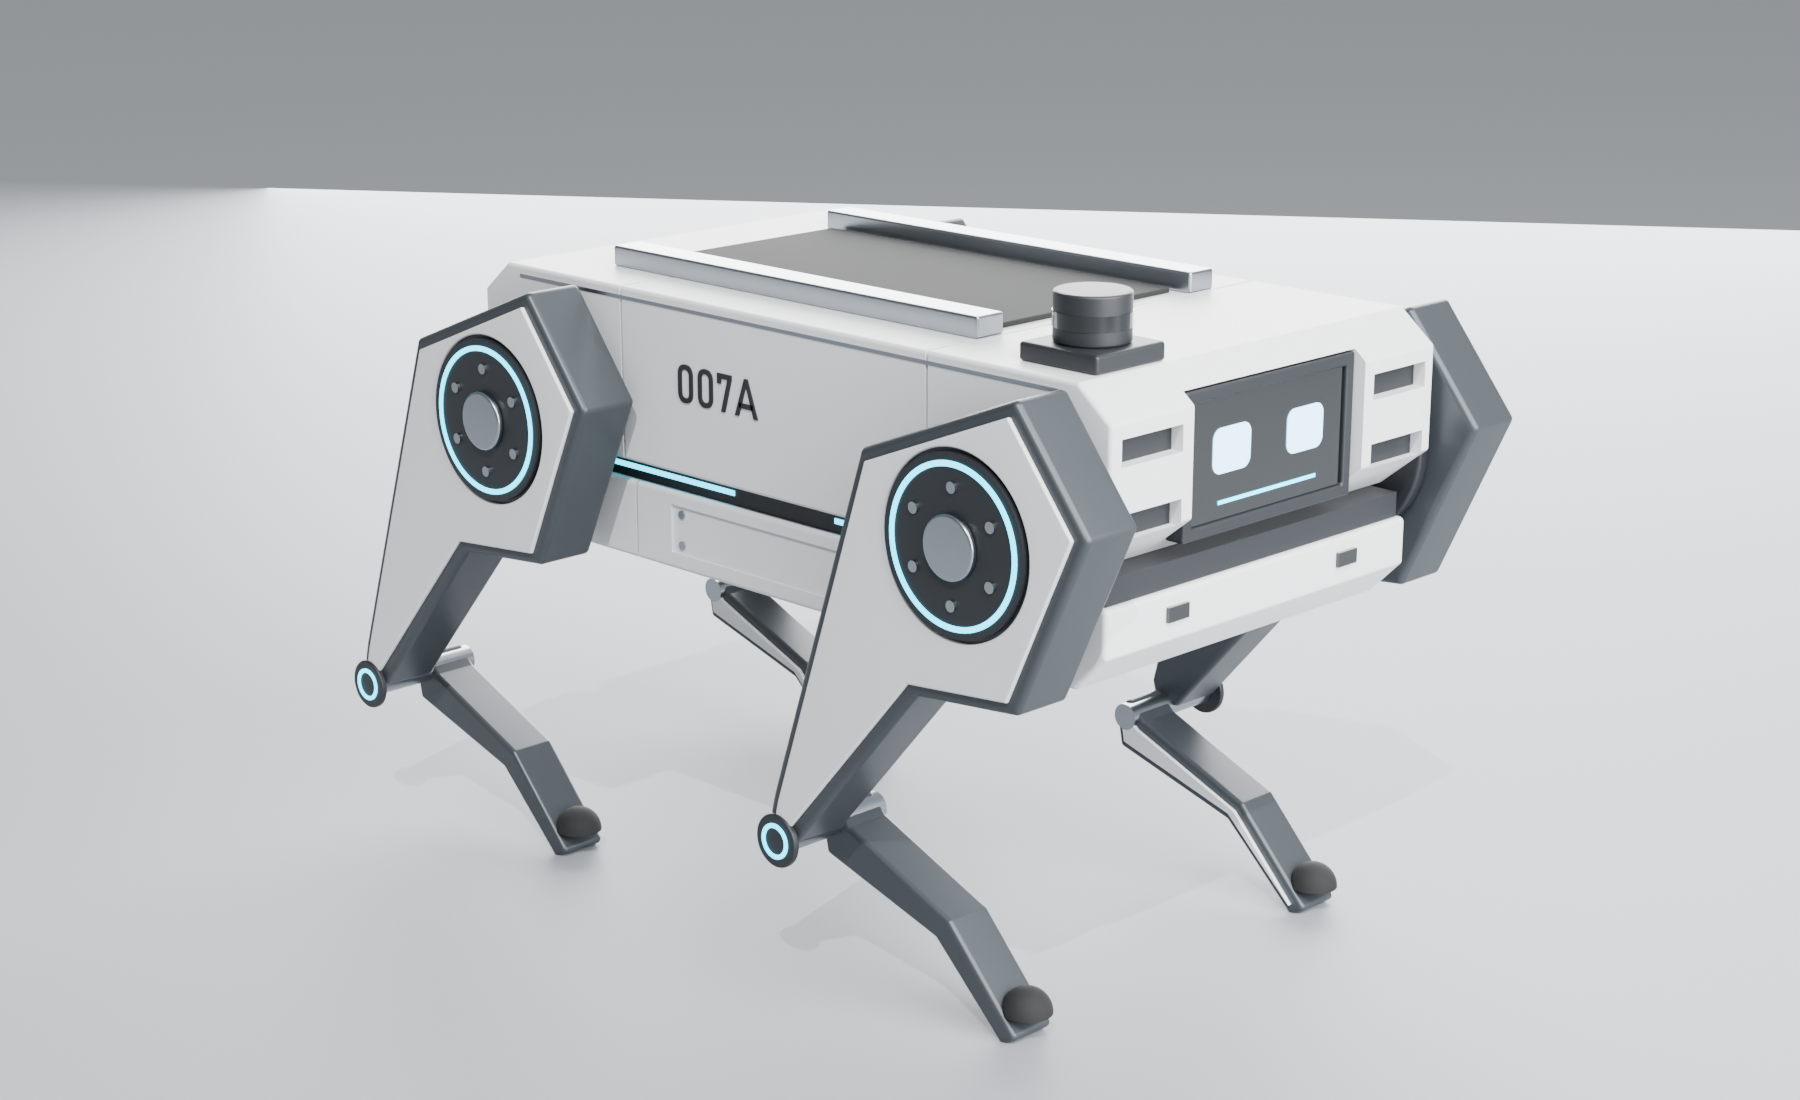
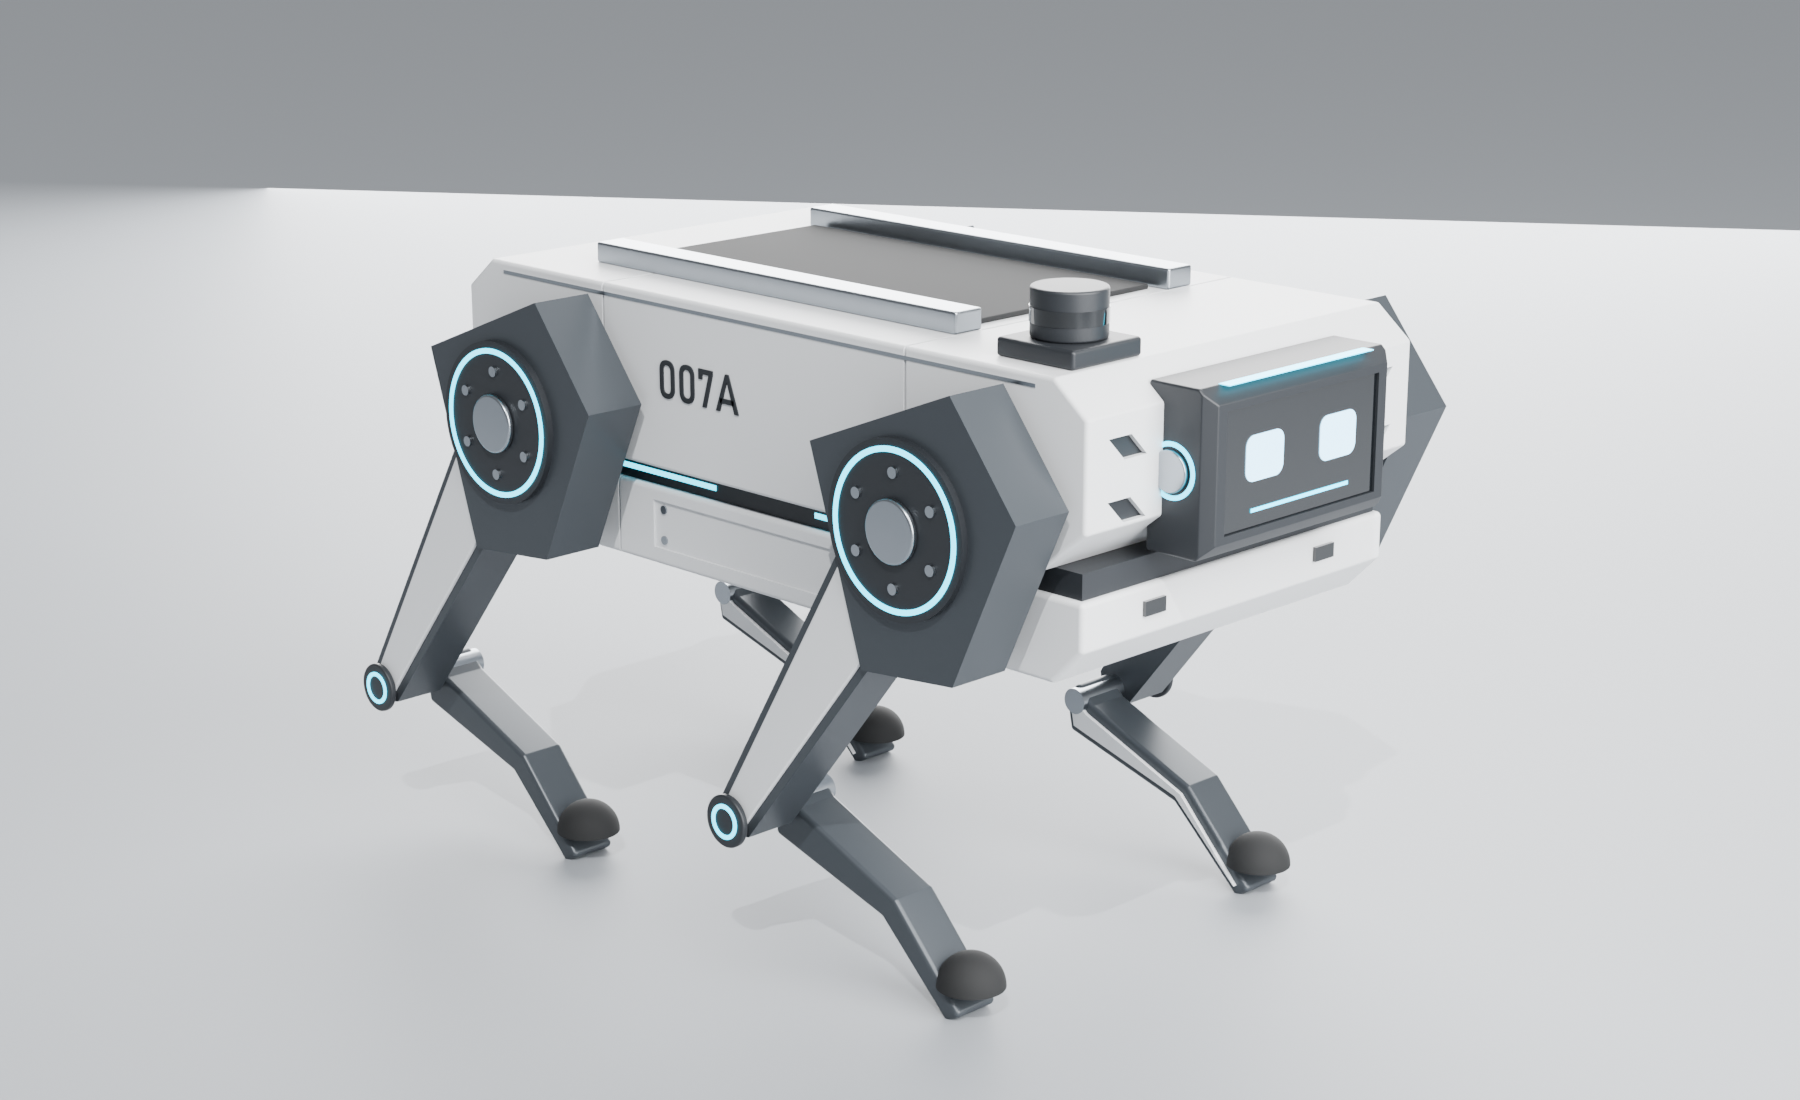
007A 外观 v2：髋盘按电机缩紧、大腿收成一条臂；髋往后收、头做成往前凸出的屏幕模块（带抬头低头转轴）；平行斜槽；脚垫加大

diff --git a/007a/model.py b/007a/model.py
@@ -22,7 +22,7 @@ V = cq.Vector
 # ================================================================ 尺寸
 BODY_L, BODY_W, BODY_H = 480.0, 260.0, 160.0
 L2, W2 = BODY_L / 2, BODY_W / 2
-HIP_X = 185.0
+HIP_X = 160.0                                   # 髋往后收：头要在最前面（v2，用户：腿不能超过头）
 MOTOR_D = 92.0                                   # 关节电机（GIM8108-8 级别）
 SEAM = 2.0
 
@@ -37,7 +37,20 @@ Z0 = HIP_Z - BODY_H / 2                          # 机身底离地
 TUB_TOP, WAIST_TOP = Z0 + 46, Z0 + 60            # 下层底盘顶、黑腰顶（上层外壳 100 高，屏幕整块嵌进去）
 TOP = Z0 + BODY_H
 HUB_SK = [(-35, -33), (28, -33), (33, 38), (-4, 49), (-47, 8)]
-HUB_F = (MOTOR_D / 2 + 8) / 30.0
+WR, WK = 30.0, 14.0                              # 大腿：根部半宽、膝那头半宽（v2：收窄，用户嫌大腿太大）
+
+
+def _hub_scale():
+    """髋盘照草图的尖角外形，按“刚好包住电机（半径 + 5）”缩放：最小边心距 = 51。"""
+    best = 1e9
+    n = len(HUB_SK)
+    for i in range(n):
+        (x0, y0), (x1, y1) = HUB_SK[i], HUB_SK[(i + 1) % n]
+        best = min(best, abs(x0 * y1 - x1 * y0) / math.hypot(x1 - x0, y1 - y0))   # 原点到边的距离
+    return (MOTOR_D / 2 + 5) / best
+
+
+HUB_F = _hub_scale()
 KNEE_TOP = [(303, 234), (311, 245), (313, 262)]
 KNEE_BOT = [(296, 266)]
 SHANK_SK = [(310, 250), (317, 265), (311, 285), (218, 303), (160, 348), (149, 340), (208, 288), (294, 262)]
@@ -101,25 +114,30 @@ def _rot(p, r):
 
 
 def leg_2d(foot=(0.0, -HIP_Z)):
-    """返回 (髋盘+大腿 多边形, 小腿 多边形, 膝, 脚)。草图里膝朝右，这里膝朝后（-x），所以先把草图左右镜像。"""
+    """返回 (髋盘 多边形, 大腿臂 多边形, 小腿 多边形, 膝, 脚)。草图里膝朝右，这里膝朝后（-x），所以先把草图左右镜像。"""
     knee = leg_ik(foot)
     sk = lambda p, o: (-(p[0] - o[0]), -(p[1] - o[1]))           # 草图 → 镜像 + y 朝上
     a_sk = math.atan2(*reversed(sk(K0, H0)))
     r = math.atan2(knee[1], knee[0]) - a_sk
-    hub = [_rot((-x * HUB_F, -y * HUB_F), r) for x, y in HUB_SK]
+    hub = [_rot((-x * HUB_F, -y * HUB_F), r) for x, y in HUB_SK][::-1]
+    ang = math.atan2(knee[1], knee[0])                             # v2：大腿是一条从髋盘中心收到膝的臂，和髋盘一体
+    nx, nz = -math.sin(ang), math.cos(ang)
+    ux, uz = math.cos(ang), math.sin(ang)
+    kx, kz = knee
+    arm = [(nx * WR, nz * WR), (kx + nx * WK, kz + nz * WK), (kx + ux * WK, kz + uz * WK),
+           (kx - nx * WK, kz - nz * WK), (-nx * WR, -nz * WR)]
 
     def at_knee(pts, rr):
         return [tuple(k + d for k, d in zip(knee, _rot((sk(p, K0)[0] * S, sk(p, K0)[1] * S), rr))) for p in pts]
-    thigh = hub[:2] + at_knee(KNEE_TOP, r) + at_knee(KNEE_BOT, r) + hub[2:]
     a_sh = math.atan2(*reversed(sk(T0, K0)))
     a_now = math.atan2(foot[1] - knee[1], foot[0] - knee[0])
     shank = at_knee(SHANK_SK, a_now - a_sh)
-    return thigh[::-1], shank[::-1], knee, foot                  # 镜像后顺序反了，翻回逆时针
+    return hub, arm, shank[::-1], knee, foot
 
 
 def leg_parts(fx, sy):
     """一条腿（fx = 1 前 / -1 后，sy = 1 左 / -1 右）的零件，已放到机身上。"""
-    thigh, shank, knee, foot = leg_2d()
+    hub, arm, shank, knee, foot = leg_2d()
     hx, hz = fx * HIP_X, HIP_Z
     P = []
 
@@ -129,11 +147,11 @@ def leg_parts(fx, sy):
 
     yc = LEG_Y                                                     # 大腿中面（左边的腿；右边镜像）
     y_out = yc + T_THIGH / 2
-    th = prism_xz(thigh, yc - T_THIGH / 2, y_out)
-    th = soft(th, 4.0)
+    th = prism_xz(hub, yc - T_THIGH / 2, y_out).fuse(prism_xz(arm, yc - T_THIGH / 2 + 3, y_out - 3)).clean()
+    th = soft(th, 3.0)
     P.append(("大腿", place(th, 0), "skel"))
-    cover = prism_xz_offset(thigh, -7.0, y_out - 0.5, y_out + 2.5)   # 外盖板：浅色，比骨架小一圈、凸出 2.5
-    cover = cover.cut(cyl_y(0, 0, MOTOR_D + 6, y_out - 2, y_out + 4))   # 髋盘位置让出来（那里是光环和盖）
+    cover = prism_xz_offset(arm, -5.0, y_out - 3.5, y_out - 0.5)      # 大腿臂的浅色外盖板（髋盘那段让出来）
+    cover = cover.cut(cyl_y(0, 0, MOTOR_D + 14, y_out - 5, y_out + 2))
     P.append(("大腿外盖板", place(soft(cover, 1.2), 0), "shell"))
     # 髋盘外面：深色电机盖 + 青色光环 + 中心盖 + 6 颗螺栓
     P.append(("髋盖", place(cyl_y(0, 0, MOTOR_D + 2, y_out, y_out + 4), 0), "skel_dk"))
@@ -153,7 +171,8 @@ def leg_parts(fx, sy):
     P.append(("膝盖帽外", place(soft(cyl_y(kx, kz, 30, y_out, y_out + 4), 1.2), 0), "skel_dk"))
     P.append(("膝光点", place(ring_y(kx, kz, 20, 15, y_out + 4, y_out + 4.6), 0), "cyan"))
     fxp, fzp = foot
-    P.append(("脚垫", place(cq.Solid.makeSphere(14, V(fxp, ys0 + T_SHANK / 2, fzp + 14)), 0), "rubber"))
+    pad = cq.Solid.makeSphere(19, V(fxp, ys0 + T_SHANK / 2, fzp + 17)).cut(box(fxp - 30, fxp + 30, ys0 - 20, ys0 + 50, fzp - 10, fzp + 1))
+    P.append(("脚垫", place(pad.translate(V(0, 0, -1)), 0), "rubber"))      # 加大、底下削平一点（站得稳）
     # 机身侧面的髋座（外摆电机的法兰，深色圆盘）
     P.append(("髋座", place(soft(cyl_y(0, 0, MOTOR_D + 18, W2 - 1, W2 + 7), 2.0), 0), "skel_dk"))
     tag = ("前" if fx > 0 else "后") + ("左" if sy > 0 else "右")
@@ -192,14 +211,18 @@ def body_parts():
     # 前脸：屏幕窗 + 两边各两道凹槽（照用户的前脸图）
     sw, sh = 124.0, 64.0                                           # 4.3 寸屏露出来的部分
     zc = WAIST_TOP + (TOP - WAIST_TOP) / 2 - 2
-    slab = slab.cut(box(L2 - 14, L2 + 10, -sw / 2 - 8, sw / 2 + 8, zc - sh / 2 - 8, zc + sh / 2 + 8))
-    for sy in (1, -1):
-        for z0, z1 in ((zc + 12, zc + 26), (zc - 26, zc - 12)):
-            slab = slab.cut(box(L2 - 4, L2 + 10, *sorted((sy * (sw / 2 + 16), sy * (W2 - 6))), z0, z1))
+    HW, HH, HD = sw + 26, sh + 24, 30.0                              # 头：往前凸出的屏幕模块（宽、高、伸出来多少）
+    grooves = []
+    for sy in (1, -1):                                             # 两边各两道平行斜槽（45°，和机身切角统一）
+        y_in, y_end = sy * (HW / 2 + 12), sy * (W2 - 14)
+        for z0, z1 in ((zc + 10, zc + 22), (zc - 22, zc - 10)):
+            h = z1 - z0
+            pts = [(y_in, z0), (y_end - sy * h, z0), (y_end, z1), (y_in + sy * h, z1)]   # 平行四边形：都往外上方斜
+            slab = slab.cut(prism_yz(pts, L2 - 1, L2 + 10))
+            grooves.append((sy, z0, pts))
     P.append(("上层甲板壳", slab, "shell"))
-    for sy in (1, -1):                                             # 凹槽里的深色内衬（看得出是陷进去的）
-        for z0, z1 in ((zc + 12, zc + 26), (zc - 26, zc - 12)):
-            P.append((f"凹槽内衬{sy}{z0:.0f}", box(L2 - 4.5, L2 - 3.5, *sorted((sy * (sw / 2 + 16), sy * (W2 - 6))), z0, z1), "skel_dk"))
+    for sy, z0, pts in grooves:                                    # 凹槽里的深色内衬
+        P.append((f"凹槽内衬{sy}{z0:.0f}", prism_yz(pts, L2 - 1.5, L2 + 0.8), "skel_dk"))
     for sy in (1, -1):
         txt = cq.Workplane("XZ").text("007A", 30, 0.8, halign="center", valign="center", fontPath="C:/Windows/Fonts/bahnschrift.ttf").val()
         txt = txt.translate(V(-40, 0, 0))
@@ -209,15 +232,23 @@ def body_parts():
             txt = txt.translate(V(0, -W2 - 2, zc))
         P.append((f"字样{sy}", txt, "skel_dk"))
         P.append((f"甲板边线{sy}", box(-L2 + 30, L2 - 30, *sorted((sy * (W2 + 2), sy * (W2 + 2.4))), TOP - 7, TOP - 5), "metal"))
-    # ---- 头：屏幕框（深色）+ 屏幕（玻璃）+ 眼睛（屏上的图案）
-    bez = box(L2 - 14, L2 - 2, -sw / 2 - 7, sw / 2 + 7, zc - sh / 2 - 7, zc + sh / 2 + 7)
-    bez = bez.cut(box(L2 - 15, L2 - 1, -sw / 2, sw / 2, zc - sh / 2, zc + sh / 2))
-    P.append(("屏幕框", soft(bez, 1.5), "skel_dk"))
-    P.append(("屏幕", box(L2 - 6, L2 - 4, -sw / 2, sw / 2, zc - sh / 2, zc + sh / 2), "glass"))
+    # ---- 头：深色屏幕模块从前脸往前伸 30，前面切角（像头盔面罩）；两侧金属圆盖 = 抬头低头的转轴
+    hx0, hx1 = L2 + 4, L2 + 4 + HD
+    head = box(hx0 - 10, hx1, -HW / 2, HW / 2, zc - HH / 2, zc + HH / 2)
+    head = cq.Workplane().add(head).edges("|Y and >X").chamfer(8).val()
+    head = cq.Workplane().add(head).edges("|Z and >X").chamfer(6).val()
+    head = soft(head, 1.5)
+    head = head.cut(box(hx1 - 3, hx1 + 1, -sw / 2, sw / 2, zc - sh / 2, zc + sh / 2))
+    P.append(("头", head, "skel_dk"))
+    P.append(("屏幕", box(hx1 - 3, hx1 - 1.5, -sw / 2, sw / 2, zc - sh / 2, zc + sh / 2), "glass"))
     for ey in (-30, 30):
-        eye = cq.Workplane("YZ").rect(30, 24).extrude(0.4).edges("|X").fillet(6).val().translate(V(L2 - 3.9, ey, zc + 4))
+        eye = cq.Workplane("YZ").rect(30, 24).extrude(0.4).edges("|X").fillet(6).val().translate(V(hx1 - 1.4, ey, zc + 4))
         P.append((f"眼睛{ey}", eye, "eye"))
-    P.append(("屏幕下沿灯", box(L2 - 3.8, L2 - 3.4, -40, 40, zc - sh / 2 + 8, zc - sh / 2 + 10), "cyan"))
+    P.append(("屏幕下沿灯", box(hx1 - 1.3, hx1 - 0.9, -40, 40, zc - sh / 2 + 8, zc - sh / 2 + 10), "cyan"))
+    for sy in (1, -1):
+        P.append((f"头转轴盖{sy}", soft(cyl_y(hx0 + 6, zc, 22, *sorted((sy * HW / 2, sy * (HW / 2 + 3)))), 0.8), "metal"))
+        P.append((f"头转轴光环{sy}", ring_y(hx0 + 6, zc, 30, 25, *sorted((sy * HW / 2, sy * (HW / 2 + 0.6)))), "cyan"))
+    P.append(("头上沿灯", box(hx1 - 9, hx1 - 2, -HW / 2 + 16, HW / 2 - 16, zc + HH / 2 - 0.2, zc + HH / 2 + 0.3), "cyan"))
     # 激光雷达：人面对它看的左上角（= 机器人自己的右边，-y），照用户的前脸图
     lx, ly = L2 - 46, -(W2 - 40)
     P.append(("雷达座", soft(box(lx - 26, lx + 26, ly - 26, ly + 26, TOP, TOP + 10), 2.0), "skel_dk"))
